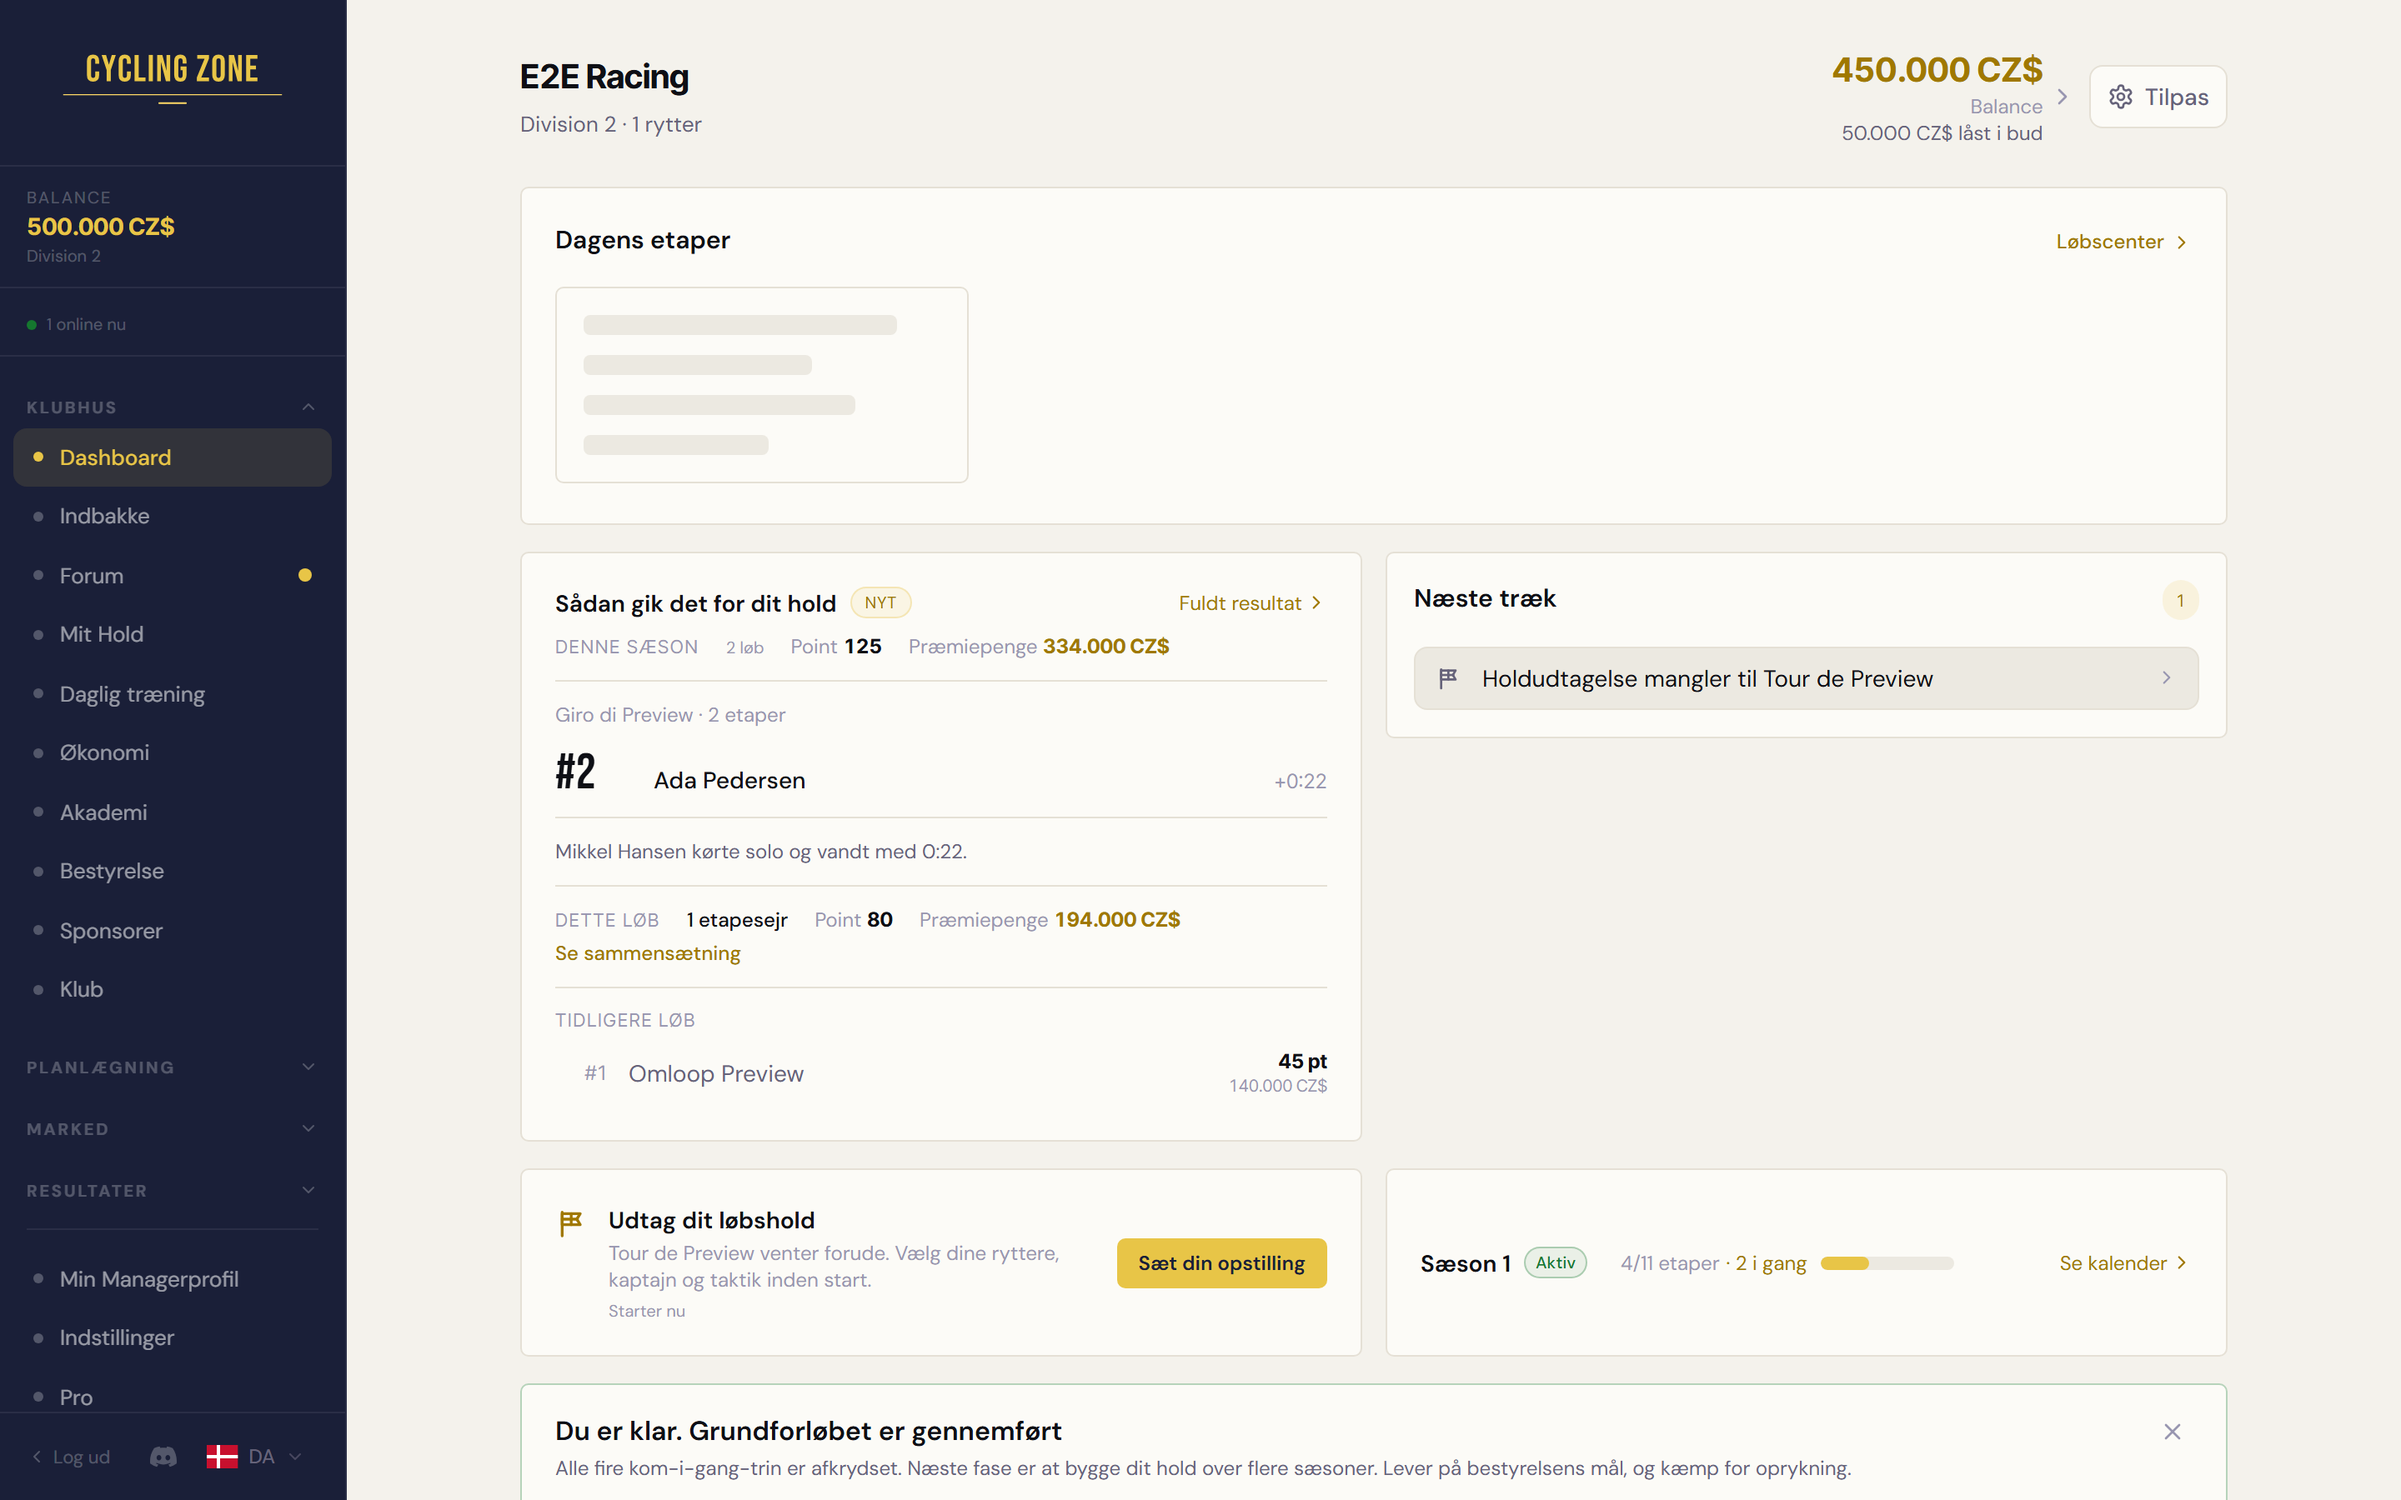
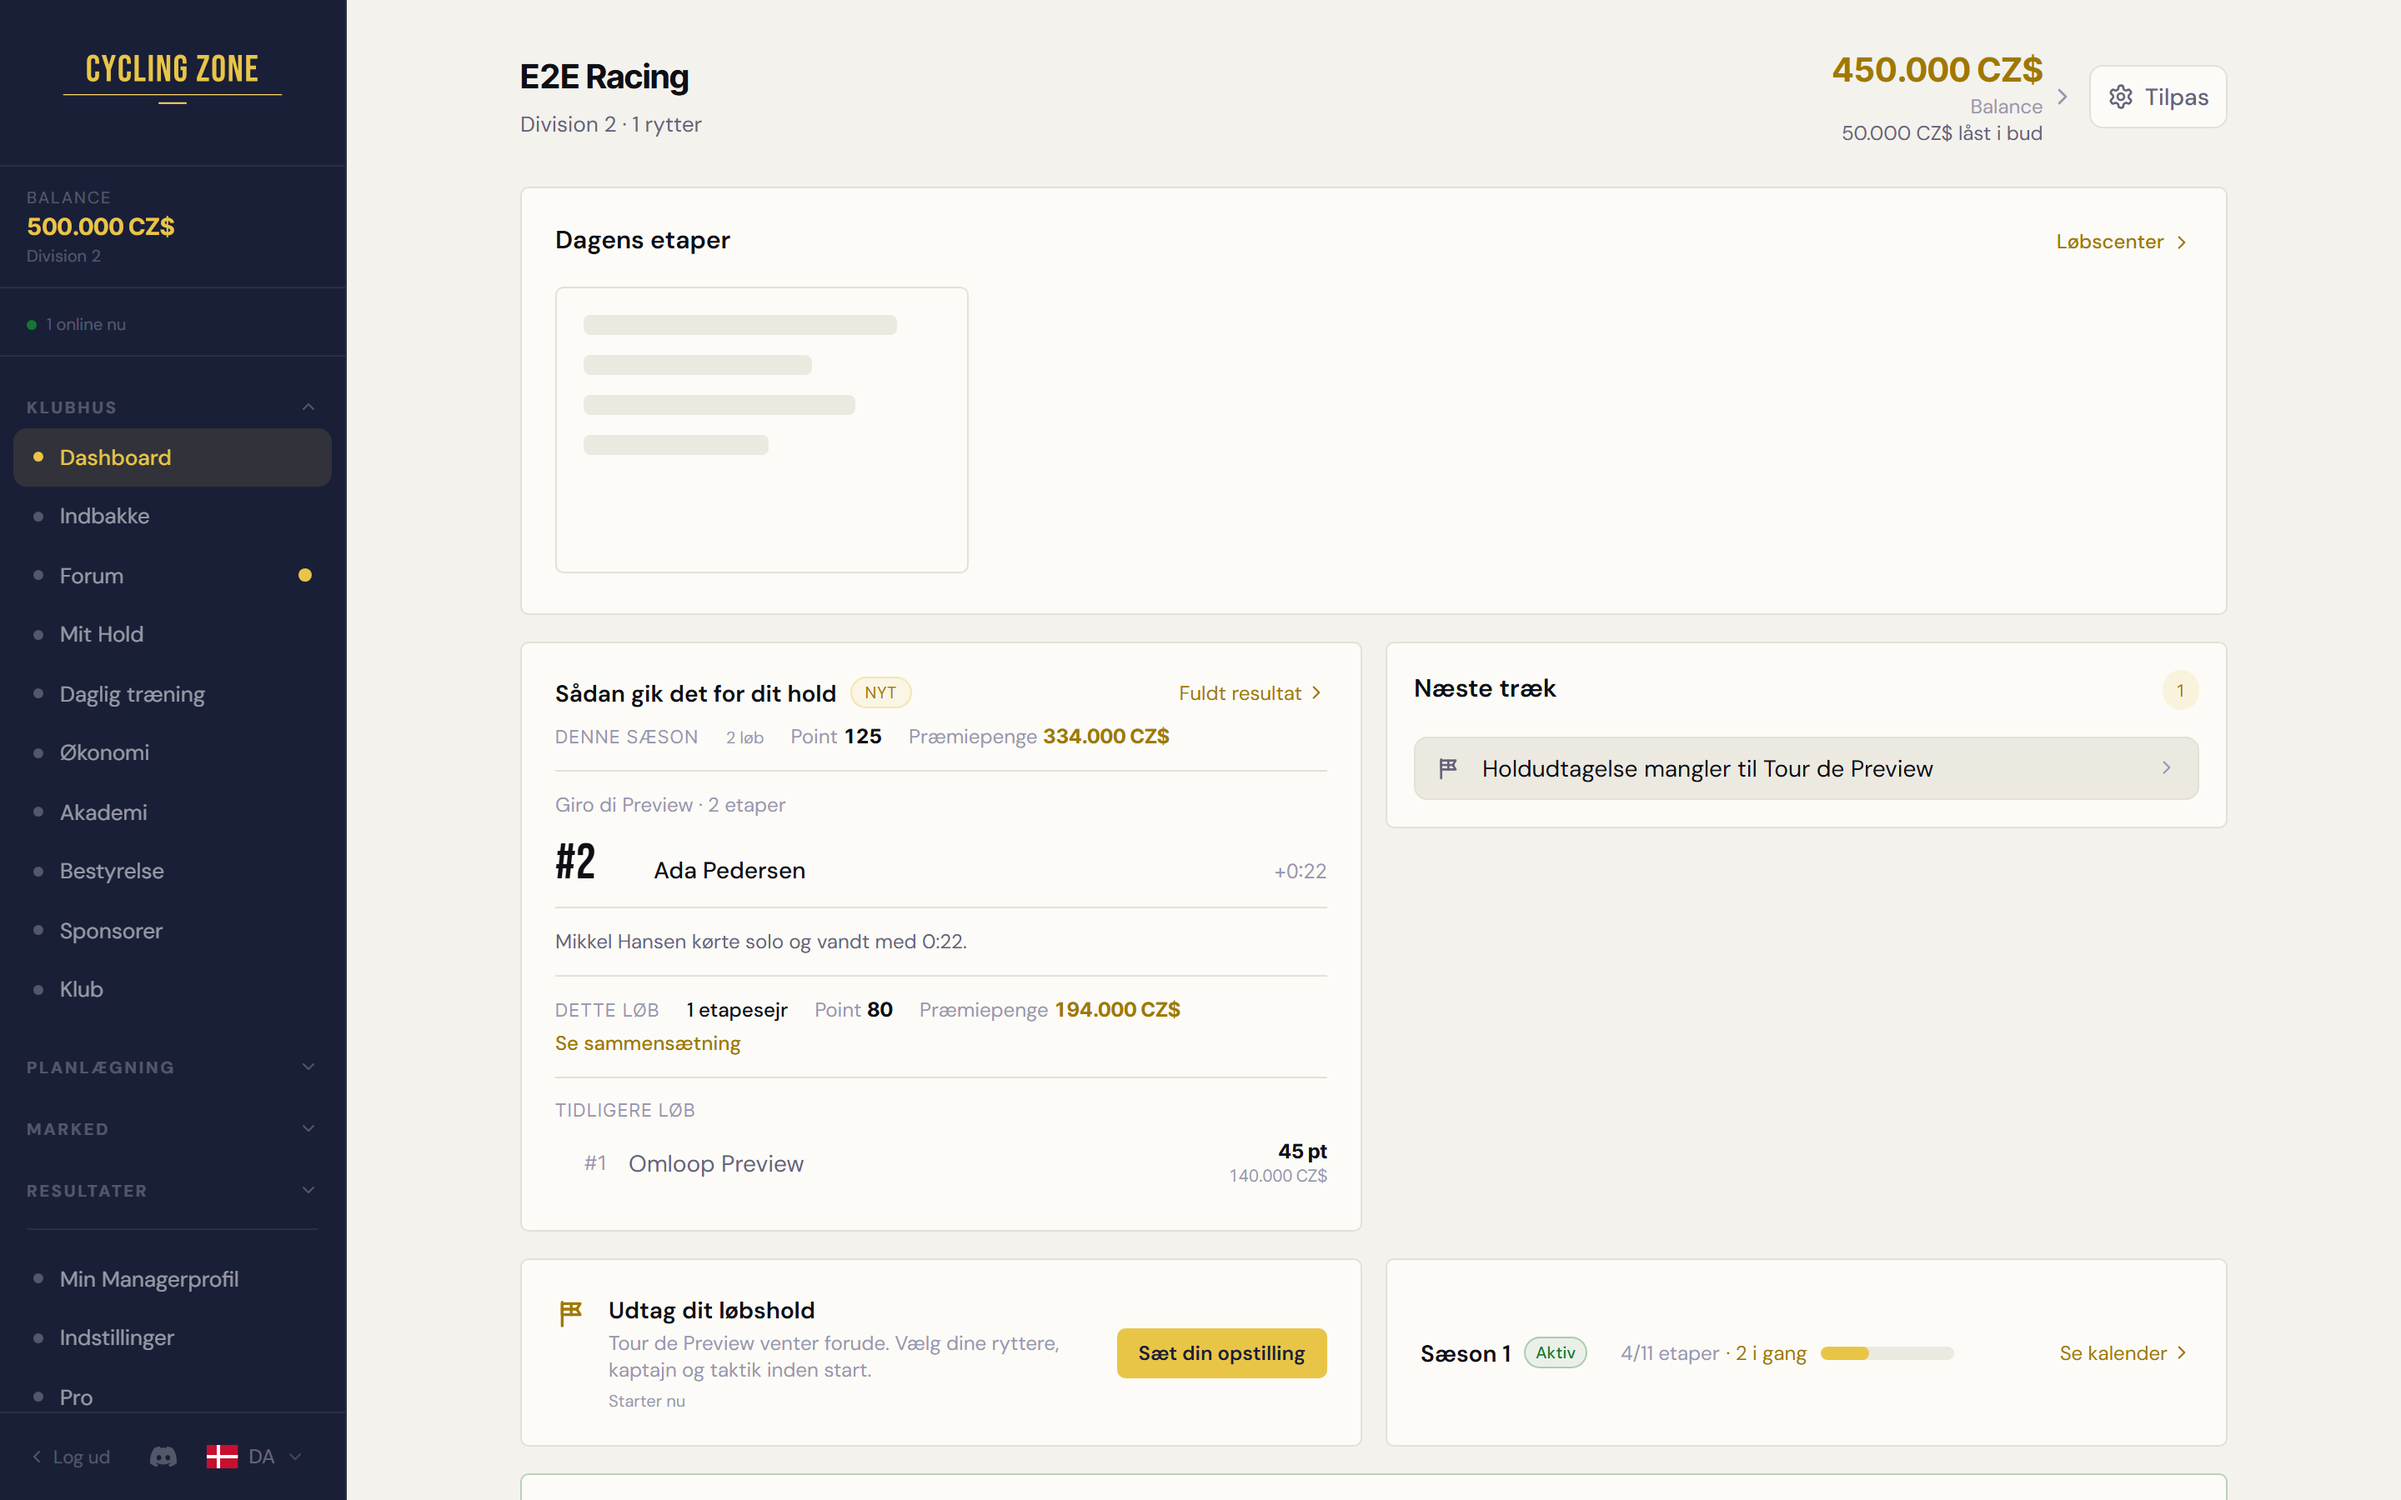
fix(dashboard): del eksplicit kort-hoejde mellem skelet og rigtigt kort (CodeRabbit)
CodeRabbit CLI fandt at h-full var en no-op uden en hoejde-foraelder,
saa skelettet var ~50px lavere end det rigtige kort (matcher det
residual-CLS jeg selv maalte paa desktop). Begge kort-varianter deler
nu TODAY_STAGE_CARD_HEIGHT (172px). Samtidig: eksplicit .js-import for
./ui (samme fund, .coderabbit.yaml-reglen om extensionless imports).
Mobil-CLS faldt fra ~0,10 til 0,004; desktops resterende 0,093 er
sporet til et andet, urelateret dashboard-element (se PR-body).

Refs #5384

diff --git a/frontend/src/components/TodayStagesStrip.loadingSkeleton.test.js b/frontend/src/components/TodayStagesStrip.loadingSkeleton.test.js
@@ -36,8 +36,8 @@ test("#5389 en ægte 'ingen løb i dag' (færdig-hentet OG tom) renderer stadig 
 test("#5389 loading-tilstanden bruger den kanoniske SkeletonLines (opfinder ikke eget loading-markup, PAGE_TEMPLATES.md)", () => {
   assert.match(
     source,
-    /import\s*\{[^}]*SkeletonLines[^}]*\}\s*from\s*"\.\/ui"/,
-    "skelettet skal komme fra components/ui's SkeletonLines, ikke et håndrullet loading-markup",
+    /import\s*\{[^}]*SkeletonLines[^}]*\}\s*from\s*"\.\/ui\/index\.js"/,
+    "skelettet skal komme fra components/ui's SkeletonLines (eksplicit .js-import, .coderabbit.yaml), ikke et håndrullet loading-markup",
   );
   assert.match(
     source,
@@ -46,9 +46,30 @@ test("#5389 loading-tilstanden bruger den kanoniske SkeletonLines (opfinder ikke
   );
 });
 
-test("#5389 skelet-kortet matcher det rigtige korts ramme (w-[248px] + Card p-4), så byttet ikke flytter noget", () => {
-  const match = source.match(/function TodayStageSkeletonCard\(\) \{[\s\S]*?\n\}/);
-  assert.ok(match, "kunne ikke finde TodayStageSkeletonCard i kilden");
-  assert.match(match[0], /w-\[248px\]/, "skelettets bredde skal matche TodayStageCard's w-[248px]");
-  assert.match(match[0], /className="flex h-full flex-col p-4"/, "skelettets Card-padding skal matche TodayStageCard's");
+// CodeRabbit-fund (#5389): `h-full` på et kort inde i en `<Link>`/`<div>`
+// UDEN defineret højde er en no-op — det garanterer INTET fælles mål mellem
+// skelet og rigtigt kort. Fix: begge bruger nu SAMME eksplicitte
+// TODAY_STAGE_CARD_HEIGHT-konstant, målt på det rigtige korts faktiske
+// indhold (172px, se kommentaren ved konstanten).
+test("#5389 skelet-kortet og det rigtige kort deler SAMME eksplicitte højde-konstant (CodeRabbit-fund: h-full uden en højde-forælder er en no-op)", () => {
+  const constMatch = source.match(/const TODAY_STAGE_CARD_HEIGHT = (\d+);/);
+  assert.ok(constMatch, "kunne ikke finde TODAY_STAGE_CARD_HEIGHT-konstanten i kilden");
+
+  const skeletonMatch = source.match(/function TodayStageSkeletonCard\(\) \{[\s\S]*?\n\}/);
+  assert.ok(skeletonMatch, "kunne ikke finde TodayStageSkeletonCard i kilden");
+  assert.match(skeletonMatch[0], /w-\[248px\]/, "skelettets bredde skal matche TodayStageCard's w-[248px]");
+  assert.match(
+    skeletonMatch[0],
+    /style=\{\{ height: TODAY_STAGE_CARD_HEIGHT \}\}/,
+    "skelettets Card skal bruge den delte højde-konstant, ikke h-full",
+  );
+
+  assert.doesNotMatch(
+    source,
+    /className="flex h-full flex-col p-4"/,
+    "h-full er en no-op uden en højde-forælder — begge kort skal bruge den eksplicitte konstant i stedet",
+  );
+  // Begge callsites (skelet + rigtigt kort) skal bruge PRÆCIS samme konstant.
+  const heightUsages = source.match(/style=\{\{ height: TODAY_STAGE_CARD_HEIGHT \}\}/g) ?? [];
+  assert.equal(heightUsages.length, 2, "både skelet-kortet og TodayStageCard skal sætte height via TODAY_STAGE_CARD_HEIGHT");
 });

diff --git a/frontend/src/components/TodayStagesStrip.jsx b/frontend/src/components/TodayStagesStrip.jsx
@@ -1,6 +1,6 @@
 import { Link } from "react-router";
 import { useTranslation } from "react-i18next";
-import { Card, Section, SectionHeader, SectionAction, StatusBadge, ClockIcon, TrophyIcon, SkeletonLines } from "./ui";
+import { Card, Section, SectionHeader, SectionAction, StatusBadge, ClockIcon, TrophyIcon, SkeletonLines } from "./ui/index.js";
 import TerrainGlyph from "./calendar/TerrainGlyph.jsx";
 import StageProfileGraph from "./race/StageProfileGraph.jsx";
 import { hasRouteData } from "../lib/stageRouteProfile.js";
@@ -26,12 +26,21 @@ import { formatLocalTime } from "../lib/intl.js";
 // kalds egen fetch, skal resten af siden stadig stå, ikke vente på den).
 const STATE_TO_BADGE = { live: "raceLive", upcoming: "info", finished: "won" };
 
-// Matcher TodayStageCard's egen ramme (w-[248px] shrink-0, Card p-4) så
-// bytte fra skelet til rigtigt kort ikke ændrer højden (#5389).
+// #5389 (CodeRabbit-fund): `h-full` er en no-op her — den ydre `<div
+// w-[248px]>`/`<Link>`-wrapper har ingen defineret højde for `h-full` at
+// arve fra, så den garanterer INTET fælles mål mellem skelettet og et
+// rigtigt kort. En delt, EKSPLICIT pixel-højde er den eneste måde de to kan
+// garanteres identiske — målt på det rigtige korts faktiske indhold (titel +
+// undertitel, 22px rute-graf, statuslinje, sekundær linje, alt p-4).
+const TODAY_STAGE_CARD_HEIGHT = 172;
+
+// Matcher TodayStageCard's egen ramme (w-[248px] shrink-0, Card p-4, samme
+// TODAY_STAGE_CARD_HEIGHT) så bytte fra skelet til rigtigt kort ikke ændrer
+// højden (#5389).
 function TodayStageSkeletonCard() {
   return (
     <div className="w-[248px] shrink-0">
-      <Card className="flex h-full flex-col p-4" borderClass="border-cz-border">
+      <Card className="flex flex-col p-4" style={{ height: TODAY_STAGE_CARD_HEIGHT }} borderClass="border-cz-border">
         <SkeletonLines lines={4} />
       </Card>
     </div>
@@ -59,7 +68,8 @@ function TodayStageCard({ card, t }) {
       <Card
         interactive
         borderClass={state === "live" ? "border-cz-danger/40" : "border-cz-border"}
-        className="flex h-full flex-col p-4"
+        className="flex flex-col p-4"
+        style={{ height: TODAY_STAGE_CARD_HEIGHT }}
       >
         <div className="flex items-start justify-between gap-2">
           <div className="min-w-0">
